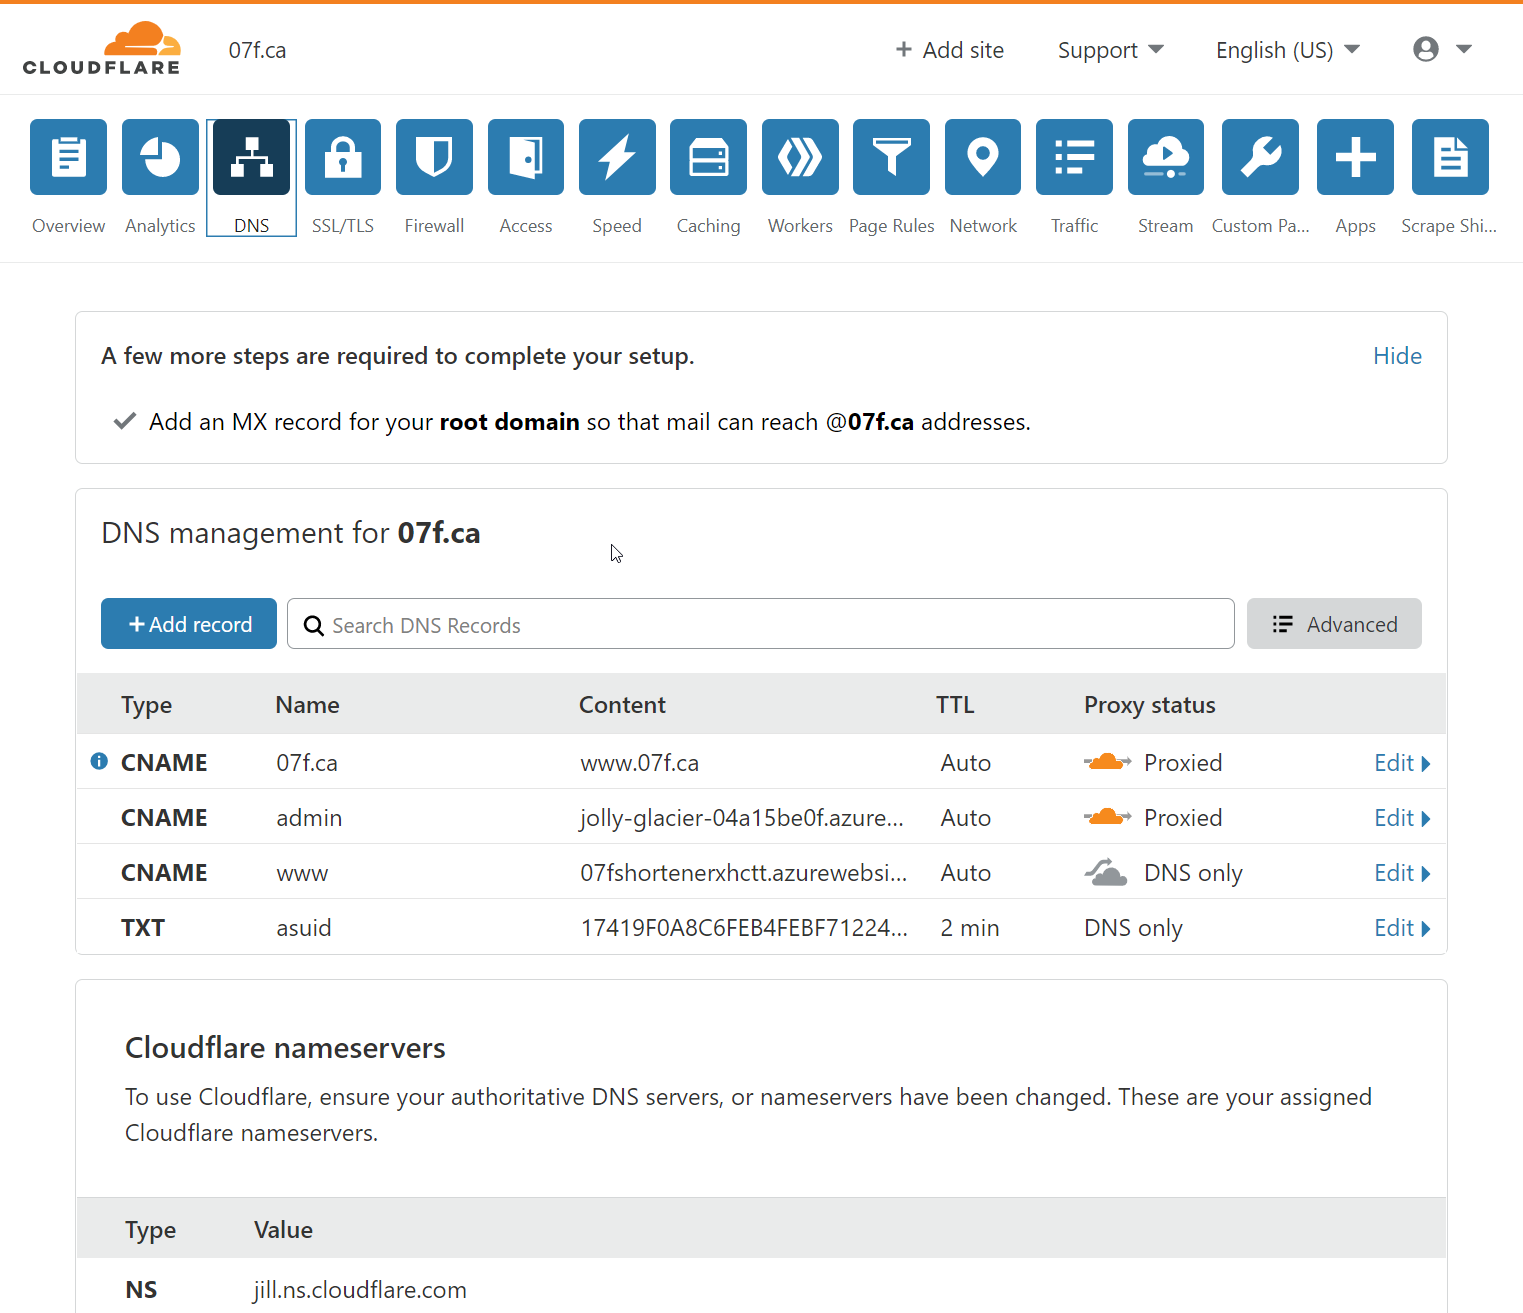
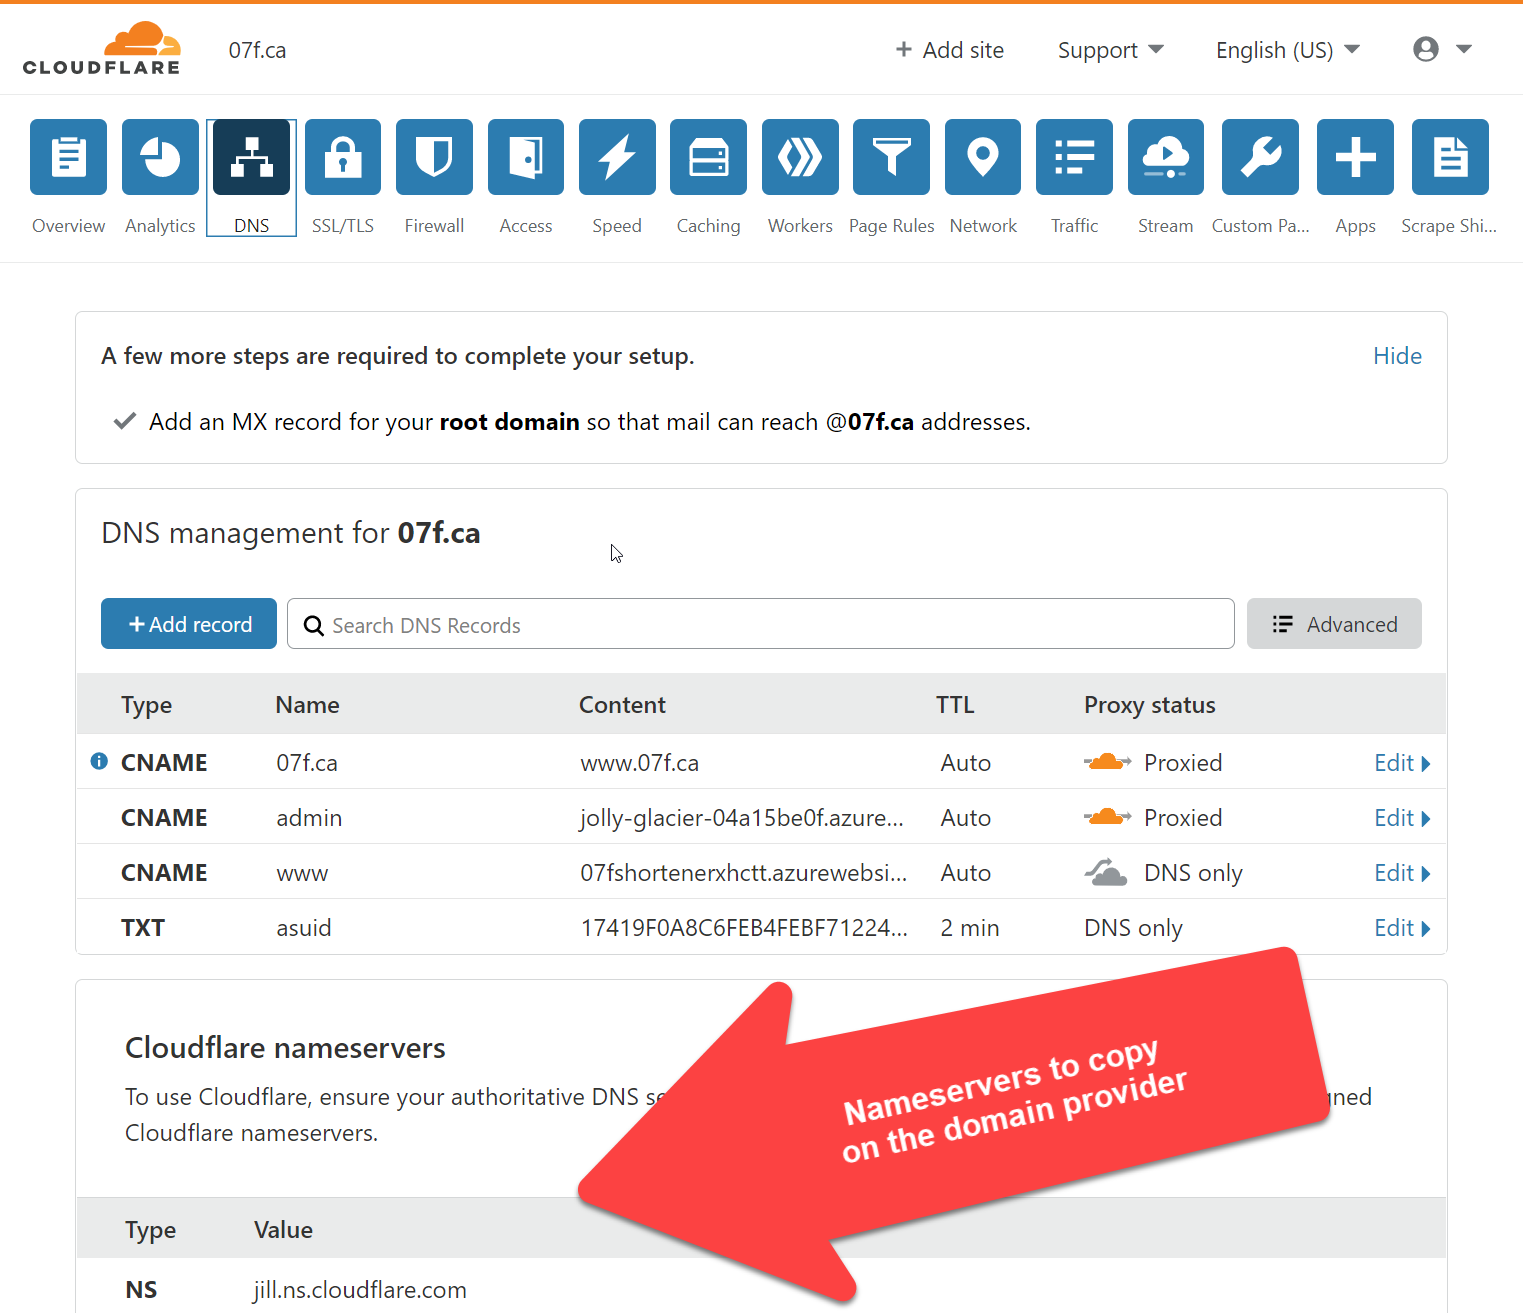
set cloudflare DNS and page rules

Changed region(s): [[0.3703, 0.7182, 0.8949, 0.9992]]

diff --git a/post-deployment-configuration.md b/post-deployment-configuration.md
@@ -65,18 +65,34 @@ Voila! You can now call your azURLShortener from your custom domain! ✔
 
 ### 3- Remove the www sub-domain
 
-Create a account in CloudFlare and add a site 
-
+This next section is to "fake" a naked domain.
 
 ![cf_addSite][cf_addSite]
 
+Create an account in cloudflare.com and add a site for your domain. We will need to customized the DNS and create some Page Rules. 
+
 ![cf_DNS_Rules][cf_DNS_Rules]
+
+On the cloudflare.com note the 2 nameservers adresses. Go to the origin name provider (in my case godaddy) and replace the nameservers names with the value found on cloudflare.
 
 ![cl_dns_details][cl_dns_details]
 
-![cf_rules_details][cf_rules_details]
+Now let's create a rules that will redirect all the incoming traffic from the naked-domain to www.domain. On the option on the top, click the **Pages Rules** (B). Then Click the Button **Create Page Rule**
+
+![Rule1][Rule1]
+
+In the field for **If the URL matches:** enter the naked-domain follow by `/*`. That will match everything coming from that URL
+
+For the **settings** select `Forwarding URL` and `301- Permanent Redirect`. Then the destination url should be `https://www.` with your domain and `/$1`.
+
+The URL shortener is now completly configured, and your users will be pleased. There only one last step to make YOUR experience more enjoyable.
 
 
+### 4- Add A Page Rule for your Admin page (TinyBlazorAdmin)
+
+The TinyBlazorAdmin is the place to manage all your URLs. Create a new Page rule to redirect all call to your domain and the prefix of your choice. ( ex: admin.07f.ca, manager.07f.ca, new.07f.ca, etc)
+
+Congradulation, you are all set!
 
 ---
 
@@ -121,4 +137,5 @@ And finally, click the **Copy** button to get the URL of your function _with the
 [cf_DNS_Rules]: medias/cf_DNS_Rules.png
 [cl_dns_details]: medias/cl_dns_details.png
 [cf_rules_details]: medias/cf_rules_details.png
+[Rule1]: medias/Rule1.png
 
